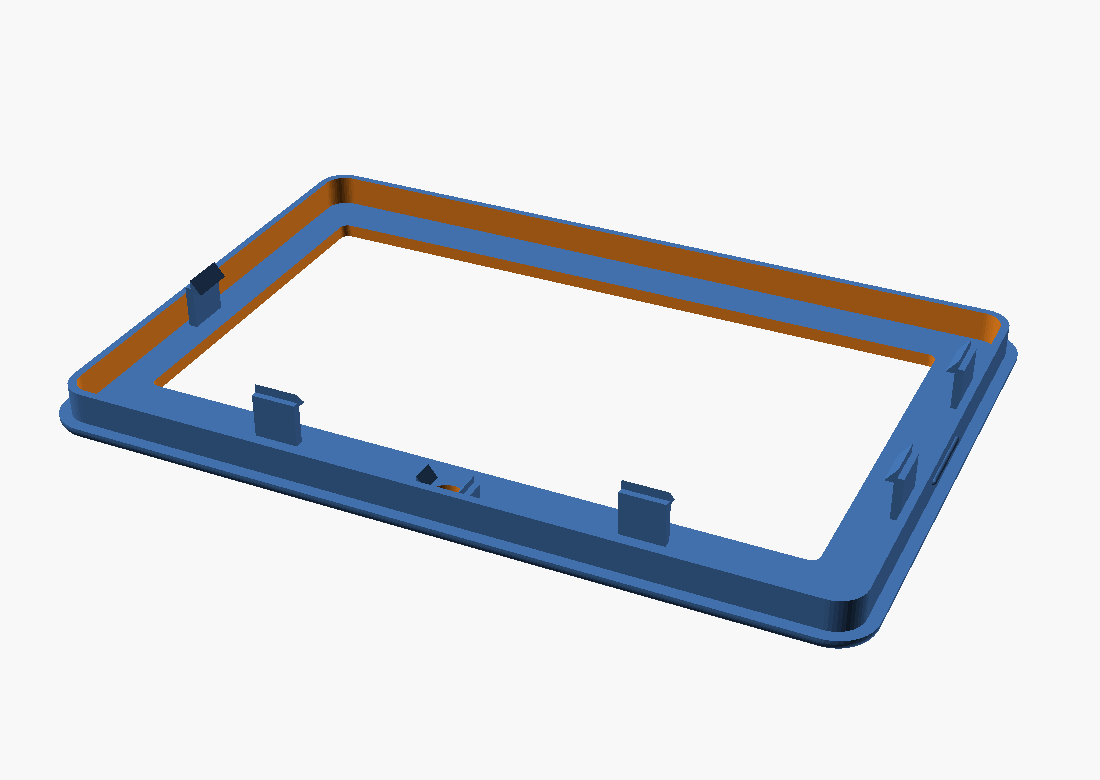
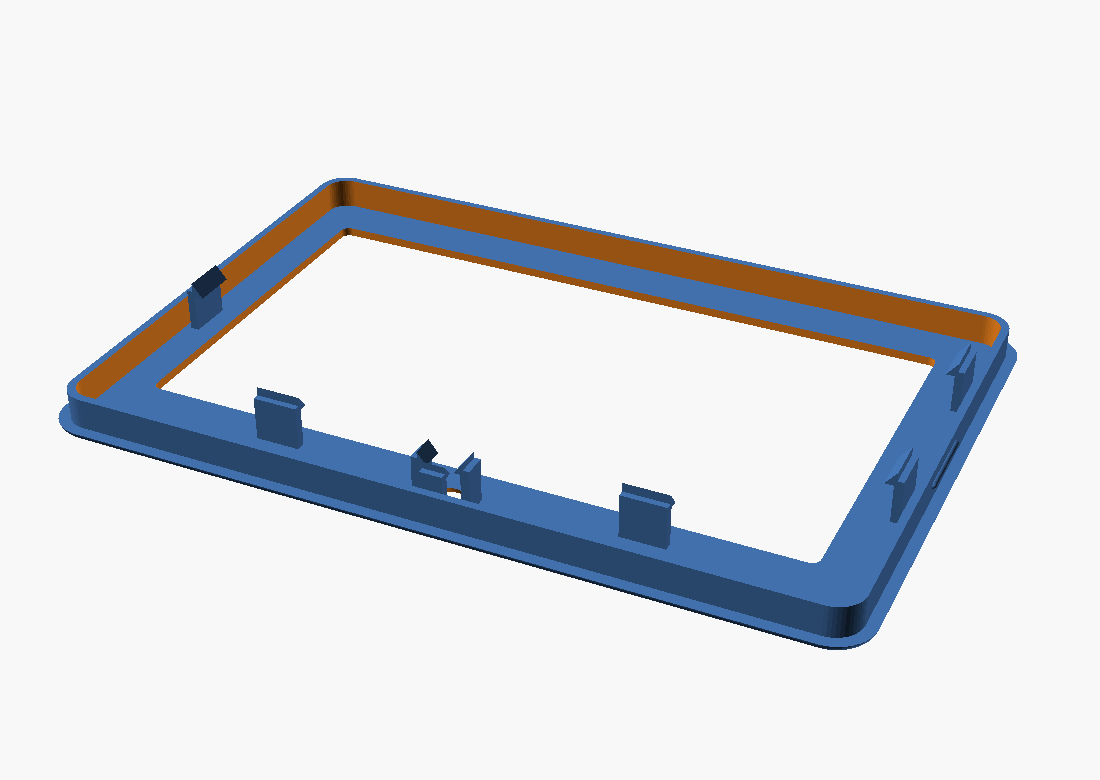
Camera 7B : crochets pleine hauteur, angle de degagement, couvercle a 2
La camera descend jusqu'au dos de la carte : ses crochets font
maintenant 8.6, la meme longueur que ceux de la dalle, au lieu des
2 mm precedents qui s'arretaient au niveau du verre.

L'objectif reste plaque sous le couvercle, et ce n'est pas un choix
esthetique : en le descendant de 3.6 pour l'aligner sur l'avant de la
carte, le VERRE de la dalle - a 5 mm de la et desormais plus haut que
l'objectif - coupe tout au-dela de 19 degres. Verifie geometriquement
avant de rebrousser chemin.

L'objectif etant un peu en retrait dans son barillet, le trou est un
cone : Ø7.2 au ras interieur, evase a l'angle de champ sur
l'epaisseur du couvercle -> Ø10.5 dehors.

Epaisseur du couvercle exposee dans le panneau Boitier (3 par defaut)
et mise a 2 sur le modele 7B : la bordure autour de l'ecran etait trop
epaisse. La boite passe a 176x117x45.

Aussi : le cone part maintenant du plan de l'objectif et non du
couvercle (7e champ de la decoupe), et une poche en retrait recoit un
plafond plein - sans lui le module ne portait que sur trois
epaulements d'un demi-millimetre.

Couvercle et fond en 2 volumes, sans avertissement.

diff --git a/builder.html b/builder.html
@@ -259,7 +259,7 @@
           <h2>Modèles</h2>
           <div class="insp">
             <button class="btn primary" id="tplP4_7B" style="text-align:left">Waveshare ESP32-P4 7B — écran 7″</button>
-            <div class="empty" style="margin-top:6px">Projet complet : boîte 176 × 116 × 45, écran clipsé sous le couvercle avec sa fenêtre décalée, la caméra qui regarde au-dessus de l’écran, et les 7 ouvertures de bord (USB-A, 2× USB-C, microSD, ON/OFF, RESET, BOOT) à la bonne altitude.</div>
+            <div class="empty" style="margin-top:6px">Projet complet : boîte 176 × 117 × 45, écran clipsé sous le couvercle avec sa fenêtre décalée, la caméra qui regarde au-dessus de l’écran, et les 7 ouvertures de bord (USB-A, 2× USB-C, microSD, ON/OFF, RESET, BOOT) à la bonne altitude.</div>
           </div>
         </div>
         <div class="group">
@@ -282,6 +282,8 @@
               <input type="number" id="optComp" step="0.05" min="0" max="1"></div>
             <div class="rowline" title="Trous ronds des parois avec sommet à 45° : impression sans support ni affaissement"><label style="width:auto;flex:1">Goutte d'eau</label>
               <input type="checkbox" id="optTear"></div>
+            <div class="rowline" title="Épaisseur du dessus du couvercle. Plus fin = bordure moins épaisse autour d'un écran ; en dessous de 2 mm il gondole."><label style="width:auto;flex:1">Épaisseur couvercle</label>
+              <input type="number" id="optLidT" step="0.2" min="1.6" max="6"></div>
           </div>
         </div>
         <div class="group">
@@ -484,6 +486,10 @@ const EN = {
   'Fixation': 'Lid fixing', 'couvercle clipsé': 'snap-fit lid',
   'couvercle vissé': 'screwed lid',
   'Jeu perçage': 'Hole clearance', 'Goutte d\'eau': 'Teardrop holes',
+  'Épaisseur couvercle': 'Lid thickness',
+  'Retrait objectif': 'Lens setback', 'Ouverture extérieure : Ø ': 'Outer opening: Ø ',
+  'Épaisseur du dessus du couvercle. Plus fin = bordure moins épaisse autour d\'un écran ; en dessous de 2 mm il gondole.':
+    'Thickness of the lid\'s top plate. Thinner = slimmer border around a screen; below 2 mm it warps.',
   'Pattes': 'Tabs', 'aucune': 'none', 'sur les flancs': 'on the sides',
   'avant / arrière': 'front / back', 'Nombre': 'Count',
   'Tout effacer': 'Clear all',
@@ -658,8 +664,8 @@ Object.assign(EN, {
   '1 découpe traverse la jupe — régénère le couvercle': '1 cutout crosses the skirt — regenerate the lid',
   'découpes traversent la jupe — régénère le couvercle': 'cutouts cross the skirt — regenerate the lid',
   'Remplacer le projet actuel ?': 'Replace the current project?',
-  'Projet complet : boîte 176 × 116 × 45, écran clipsé sous le couvercle avec sa fenêtre décalée, la caméra qui regarde au-dessus de l’écran, et les 7 ouvertures de bord (USB-A, 2× USB-C, microSD, ON/OFF, RESET, BOOT) à la bonne altitude.':
-    'Complete project: 176 × 116 × 45 box, display clipped under the lid with its offset window, the camera looking out above the screen, and the 7 edge openings (USB-A, 2× USB-C, microSD, ON/OFF, RESET, BOOT) at the right height.',
+  'Projet complet : boîte 176 × 117 × 45, écran clipsé sous le couvercle avec sa fenêtre décalée, la caméra qui regarde au-dessus de l’écran, et les 7 ouvertures de bord (USB-A, 2× USB-C, microSD, ON/OFF, RESET, BOOT) à la bonne altitude.':
+    'Complete project: 176 × 117 × 45 box, display clipped under the lid with its offset window, the camera looking out above the screen, and the 7 edge openings (USB-A, 2× USB-C, microSD, ON/OFF, RESET, BOOT) at the right height.',
   'Accès bouton': 'Button access', '151.6 × 83.4 · couvercle': '151.6 × 83.4 · lid',
   '152 × 84 · couvercle': '152 × 84 · lid',
   'Monter sous le couvercle': 'Mount under the lid',
@@ -748,10 +754,10 @@ const isFlat = f => f === 'lid' || f === 'floor';
 const VENT_TYPES = ['vslots', 'hslots', 'grid', 'hex'];
 // boutons pour tact switch 6×6 (parois uniquement)
 const isBtnType = t => t === 'btnflex' || t === 'btnpiston';
-const LID_T = 3;   // epaisseur du couvercle, cf. lid_t dans le .scad
-// Ouverture exterieure d'un cone camera : le trou s'evase a l'angle de vision
+// Ouverture exterieure d'un cone camera : le trou s'evase a l'angle de
+// vision depuis le plan de l'objectif, donc sur le retrait + le couvercle
 const coneOuterR = c => (c.d + state.holeComp) / 2 +
-  LID_T * Math.tan((c.fov || 72.9) / 2 * Math.PI / 180);
+  ((c.recess || 0) + state.lidT) * Math.tan((c.fov || 72.9) / 2 * Math.PI / 180);
 
 // Cellules d'un motif d'aération, en mm autour du centre de la zone
 // (mêmes formules que vent_pattern2d dans esp32-box.scad)
@@ -896,7 +902,7 @@ const BOX_PRESETS = [
 const DEFAULT_STATE = () => ({
   inner: { w: 100, d: 70, h: 40 },
   vents: false, tieSlots: false, lidFix: 'snap',
-  holeComp: 0.3, teardrop: true,
+  holeComp: 0.3, teardrop: true, lidT: 3,
   mountTabs: 'none', mountN: 2, panel: 'cut',
   face: 'front', cuts: [], pcbs: [], cells: [], divs: [], comps: [], clips: [], nextId: 1, sel: null,
 });
@@ -1994,6 +2000,11 @@ function renderInspector() {
     if (o.type === 'cone') {
       d.append(numField('Ø objectif', o.d, v => o.d = Math.max(1, v)));
       d.append(numField('Angle de champ', o.fov || 72.9, v => o.fov = Math.max(10, Math.min(v, 175))));
+      d.append(numField('Retrait objectif', o.recess || 0, v => o.recess = Math.max(0, v)));
+      const oc = document.createElement('div');
+      oc.className = 'empty';
+      oc.textContent = t('Ouverture extérieure : Ø ') + r1(2 * coneOuterR(o)) + ' mm';
+      d.append(oc);
     } else if (o.type === 'circle' || isBtnType(o.type))
       d.append(numField(isBtnType(o.type) ? 'Ø capuchon' : 'Ø', o.d, v => o.d = Math.max(1, v)));
     else {
@@ -2181,7 +2192,7 @@ function renderInspector() {
 function cutExpr(c) {
   const off = r1(c.off * FACE_SIGN[c.face]);
   if (c.type === 'cone')
-    return `["${c.face}","cone",${off},${c.z},${c.d},${c.fov || 72.9},0]`;
+    return `["${c.face}","cone",${off},${c.z},${c.d},${c.fov || 72.9},${c.recess || 0}]`;
   if (c.type === 'circle' || isBtnType(c.type))
     return `["${c.face}","${c.type}",${off},${c.z},${c.d},0,0]`;
   const extra = (c.type === 'window' || c.type === 'insert') ? c.skin
@@ -2194,6 +2205,7 @@ function buildArgList(part) {
   const args = [`size_preset="custom"`, `custom_inner=[${w},${d},${h}]`, `part="${part}"`];
   if (state.lidFix === 'screws') args.push(`lid_fix="screws"`);
   if (state.holeComp !== 0.3) args.push(`hole_comp=${state.holeComp}`);
+  if (state.lidT !== 3) args.push(`lid_t=${state.lidT}`);
   if (part === 'inserts') {
     const ins = state.cuts.filter(c => c.type === 'insert' || c.type === 'btnpiston').map(cutExpr);
     if (ins.length) args.push(`cuts=[${ins.join(',')}]`);
@@ -2290,18 +2302,26 @@ function applyTemplateP4_7B() {
   //   14.5 = point le plus haut de la carte (ses entretoises)
   const H = 45, STACK = 8.6;
   const GW = 164.28, GD = 99.17;   // encombrement du verre
-  // caméra FPC : corps carré 8.4, barillet rond Ø7.2 quasi centré,
-  // hauteur totale 5 = 3 de barillet (l'épaisseur du couvercle,
-  // objectif affleurant dehors) + 2 de corps dessous.
-  const CAM = 8.4, LENS_D = 7.2, LENS_H = 2;
+  // Caméra FPC : corps carré 8.4, barillet rond Ø7.2 quasi centré.
+  // Le module descend jusqu'au dos de la carte, donc il fait la
+  // hauteur de la pile écran (STACK) et ses crochets sont aussi longs
+  // que ceux de la dalle. L'objectif est plaqué sous le couvercle :
+  // c'est obligatoire, en le descendant de seulement 3.6 le VERRE de
+  // la dalle, à 5 mm de là, masquerait déjà tout au-delà de 19°.
+  const CAM = 8.4, LENS_D = 7.2, FOV = 72.9;
   const LENS_GAP = 5;              // centre de l'objectif au bord du verre
+  const LID_T = 2;                 // fin : la bordure autour de l'écran
   const W = 176;
+  // Ouverture extérieure : l'objectif est un peu en retrait dans son
+  // barillet, le trou s'évase donc sur l'épaisseur du couvercle.
+  const APER = (LENS_D + 0.3) / 2 + LID_T * Math.tan(FOV / 2 * Math.PI / 180);
   // Profondeur : la caméra tombe pile dans la bande de la jupe si on
   // garde la boîte de 109. On l'allonge du strict nécessaire pour
   // qu'elle passe devant, plutôt que d'entailler la jupe :
-  //   3 de marge avant + le verre + l'objectif + le demi-module
-  //   + le doigt du crochet + la jupe (1.8) et son jeu
-  const D = Math.ceil(3 + GD + LENS_GAP + CAM / 2 + 1.6 + 2.6);
+  //   3 de marge avant + le verre + l'objectif + le plus encombrant
+  //   du module (ouverture ou crochet) + son jeu + la jupe et son jeu
+  const ENC = Math.max(APER, CAM / 2 + 0.3 + 2);
+  const D = Math.ceil(3 + GD + LENS_GAP + ENC + 0.5 + 2.05);
   // la dalle est calée vers le bas (côté lecteur SD), la caméra au-dessus
   const bY = r1(-D / 2 + 3 + GD / 2);
   const pcb = H - STACK;           // dos de la carte = niveau des connecteurs
@@ -2309,6 +2329,7 @@ function applyTemplateP4_7B() {
   const AL = t2 => r1(bY + 48.5 - t2);
 
   state.inner = { w: W, d: D, h: H };
+  state.lidT = LID_T;
   state.cuts = []; state.pcbs = []; state.cells = []; state.divs = [];
   state.comps = []; state.clips = [];
 
@@ -2334,16 +2355,17 @@ function applyTemplateP4_7B() {
   cut({ face: 'front', type: 'rect', label: 'Carte microSD', off: -2.5, z: r1(pcb - 1.1), w: 14, h: 3 });
 
   // Caméra : elle regarde à travers le COUVERCLE, au-dessus de l'écran.
-  // Le barillet traverse le couvercle (perçage droit Ø7.2, pas de cône :
-  // l'objectif ressort au ras de la face extérieure, rien ne le vignette)
-  // et le corps carré porte contre la face intérieure. Crochets sur trois
-  // côtés seulement : l'avant reste ouvert pour glisser le module et
-  // laisser sortir sa nappe vers la carte, et la dalle le bloque ensuite.
+  // Le module descend jusqu'au dos de la carte : ses crochets font la
+  // même longueur que ceux de la dalle (catch = STACK). Le trou
+  // s'évase sur l'épaisseur du couvercle pour dégager le champ de
+  // l'objectif, un peu en retrait dans son barillet. Crochets sur
+  // trois côtés : l'avant reste ouvert pour glisser le module et
+  // sortir sa nappe, la dalle referme ce côté ensuite.
   const camY = r1(bY + GD / 2 + LENS_GAP);
   state.clips.push({ id: state.nextId++, cx: 0, cy: camY, w: CAM, d: CAM,
-                     catch: LENS_H, grab: 1.5, cw: 5, nx: 1, ny: 1, open: 0 });
-  state.cuts.push({ id: state.nextId++, face: 'lid', type: 'circle',
-                    label: 'Caméra', off: 0, z: camY, d: LENS_D });
+                     catch: STACK, grab: 1.5, cw: 5, nx: 1, ny: 1, open: 0 });
+  state.cuts.push({ id: state.nextId++, face: 'lid', type: 'cone',
+                    label: 'Caméra', off: 0, z: camY, d: LENS_D, fov: FOV });
 
   state.face = 'lid';
   state.panel = 'box';
@@ -2695,6 +2717,10 @@ function buildStatic() {
     if (!isNaN(v)) { pushHistory('comp'); state.holeComp = v; updateAll(); }
   });
   $('optTear').addEventListener('change', () => { pushHistory(); state.teardrop = $('optTear').checked; updateAll(); });
+  $('optLidT').addEventListener('input', () => {
+    const v = parseFloat($('optLidT').value);
+    if (!isNaN(v) && v >= 1.6) { pushHistory('lidT'); state.lidT = v; updateAll(); }
+  });
   $('resetBtn').addEventListener('click', () => {
     if (confirm(t('Tout effacer ?'))) { pushHistory(); state = DEFAULT_STATE(); updateAll(); }
   });
@@ -2833,6 +2859,7 @@ function updateAll(withInspector = true) {
   $('optLid').value = state.lidFix;
   if (document.activeElement !== $('optComp')) $('optComp').value = state.holeComp;
   $('optTear').checked = state.teardrop;
+  if (document.activeElement !== $('optLidT')) $('optLidT').value = state.lidT;
   render();
   render3d();
   if (withInspector) renderInspector();

diff --git a/docs/Elements-Reference.md b/docs/Elements-Reference.md
@@ -110,11 +110,11 @@ top edge, back view — mirror the X when seen from the front):
 Minimum box for this display: about **176 × 109** inner, so the
 window clears the rounded corners. The module itself is 10–15 mm
 thick but its bottom-facing plugs need room: allow **40 mm** of
-inner height. **With the camera, 176 × 116 × 45** — see below.
+inner height. **With the camera, 176 × 117 × 45** — see below.
 
 **One-click template** — the *Case* panel has a **Templates**
 section: “Waveshare ESP32-P4 7B — 7″ display” builds the whole
-project (176 × 116 × 45 box, offset screen window, retaining clips,
+project (176 × 117 × 45 box, offset screen window, retaining clips,
 the camera above the screen, and all seven edge openings at the
 right height). Wall
 openings created this way are **tied to the lid**: change the box
@@ -142,17 +142,21 @@ the real part:
 |---|---|
 | Square body | **8.4 × 8.4** |
 | Lens barrel | **Ø 7.2**, near-centred |
-| Total height | **5** (≈ 3 of barrel + 2 of body) |
+| Height | **8.6** — the module reaches down to the back of the board |
 | Lens centre to the glass edge | **5** |
 
-**Straight bore, not a cone.** The barrel is nearly as wide as the
-body, and 3 mm of it is exactly the lid's thickness: the barrel
-**passes through the lid** and the lens ends up flush with the outer
-face, so nothing can vignette it. The hole is therefore a plain
-Ø 7.2 circle on the lid, and the square body bears against the lid's
-inner face around it. Only the four corners of the body do the
-bearing — the flats leave barely half a millimetre — which is
-normal for this module.
+**The lens must sit against the lid.** This is not a style choice.
+Drop it even 3.6 mm — flush with the *front* of the board instead of
+its back — and the display's own cover glass, 5 mm away and now
+higher than the lens, cuts everything past **19°** off the picture.
+So the module's top presses on the lid's inner face and its clips run
+the full 8.6 mm down, exactly as long as the display's own clips.
+
+**The angle in the plastic.** The lens sits a little way inside its
+barrel, so the hole is a **cone**: Ø 7.2 at the lid's inner face,
+opening at the field-of-view angle through the lid's thickness. On a
+2 mm lid at 72.9° it reaches **Ø 10.5** outside — a clean webcam hole
+in the bezel, with nothing left to vignette the corners.
 
 **Clips on three sides, front open.** The front edge (facing the
 screen) has no clip: it is the insertion side, and it is also where
@@ -160,37 +164,40 @@ the flex cable leaves for the board. Once the display is clipped in,
 its glass closes that side and the camera cannot come back out.
 
 **Watch the clip length on a small module.** Two clips on adjacent
-sides meet in the corner as soon as their half-length reaches the
-lip setback, and the solid stops being manifold. The builder now
-refuses that combination with a warning giving the maximum length
-(5 mm on this 8.4 module). Bigger modules are unaffected.
+sides meet in the corner as soon as their half-length reaches the lip
+setback, and the solid stops being manifold. The builder refuses that
+combination with a warning giving the maximum length (5 mm on this
+8.4 module). Bigger modules are unaffected.
 
-- A **Recess** holds the module a few millimetres *below* the lid's
-  inner face, for a camera whose lens is short enough to stay inside
-  the lid. The clip finger then becomes a groove — a shoulder in
-  front of the module, the retaining lip behind it. Changing the
-  recess keeps the groove width: the catch depth follows it.
-- For a lens that does *not* reach the outer face, use a **cone**
-  cut instead of a circle: `Lens Ø` at the inner face, widening
-  through the lid at the `Field of view` angle. In the **3D
-  preview** the lid shows that hole at its real **outer** diameter
-  (that is the side you look at), the module outline dashed, and the
-  clips holding it.
+- A **Recess** holds the module below the lid's inner face, for a
+  camera you *want* set back behind something. The clip finger
+  becomes a groove — a shoulder in front, the lip behind — and a
+  ceiling closes the pocket over the module so it bears on more than
+  the three shoulders. Changing the recess keeps the groove width:
+  the catch depth follows it. Mind the angle: a recessed lens needs a
+  cone that widens over the recess *plus* the lid, which grows fast.
+- **Lens setback** on a cone cut is that same distance: the cone
+  starts at the lens plane, not at the lid, so a set-back module is
+  not vignetted by its own pocket. The inspector prints the resulting
+  outer opening as you type.
+- In the **3D preview** the lid shows the hole at its real **outer**
+  diameter (that is the side you look at), the module outline dashed,
+  and the clips holding it.
 
 Other Waveshare modules, if you use one: RPi Camera (B) 32 × 32 /
 43°, (E) 25 × 24 / 69.8°, (F) 25 × 24 / 50°, (G) and (H) 25 × 24 /
-160°, (M) 25 × 24 / 200°, OV5647-70 19 × 19 / 70°, RPi FPC Camera
-(B) 35 × 16 / 72.9°. Set *Module width/depth* and *Field of view*
+160°, (M) 25 × 24 / 200°, OV5647-70 19 × 19 / 70°, RPi FPC Camera (B)
+35 × 16 / 72.9°. Set *Module width/depth* and *Field of view*
 accordingly.
 
 **The camera looks through the lid, not through a wall** — like a
 laptop webcam, in the bezel above the screen. At its natural spot it
 lands right in the **lid-skirt band**, so the 7B template stretches
-the box to **176 × 116 × 45** — the strict minimum for the camera
-and its clips to clear the 1.8 mm skirt — rather than notching the
-skirt. The display is pushed down against the card-reader side and
-every wall opening is recomputed from its new position, so USB,
-buttons and card slot still line up.
+the box to **176 × 117 × 45** — the strict minimum for the camera and
+its clips to clear the 1.8 mm skirt — rather than notching the skirt.
+The display is pushed down against the card-reader side and every
+wall opening is recomputed from its new position, so USB, buttons and
+card slot still line up.
 
 ![Lid with the camera](../preview/p4-camera-detail.png)
 
@@ -244,6 +251,7 @@ Case panel.
 ## Case panel
 
 Inner dimensions, side-vent strip, zip-tie slots, lid fixing
-(snap-fit / screwed), FDM hole clearance, teardrop holes, and
-**wall-mounting tabs**: 2 or 4 Ø 4.2 eyelets at floor level, on the
+(snap-fit / screwed), FDM hole clearance, teardrop holes, **lid
+thickness** (3 mm default; drop it to 2 for a slimmer border around a
+screen — below 2 the plate warps), and **wall-mounting tabs**: 2 or 4 Ø 4.2 eyelets at floor level, on the
 sides or front/back, printed with the base.
